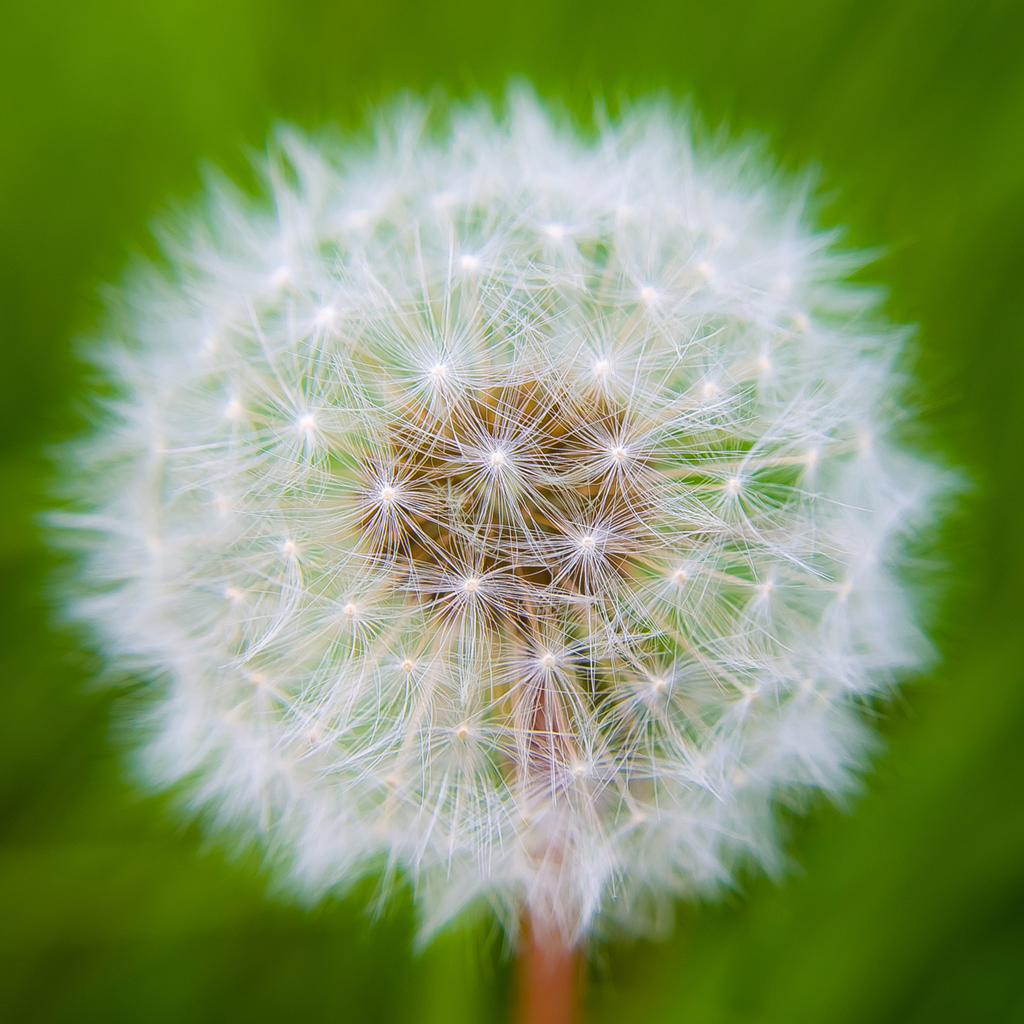
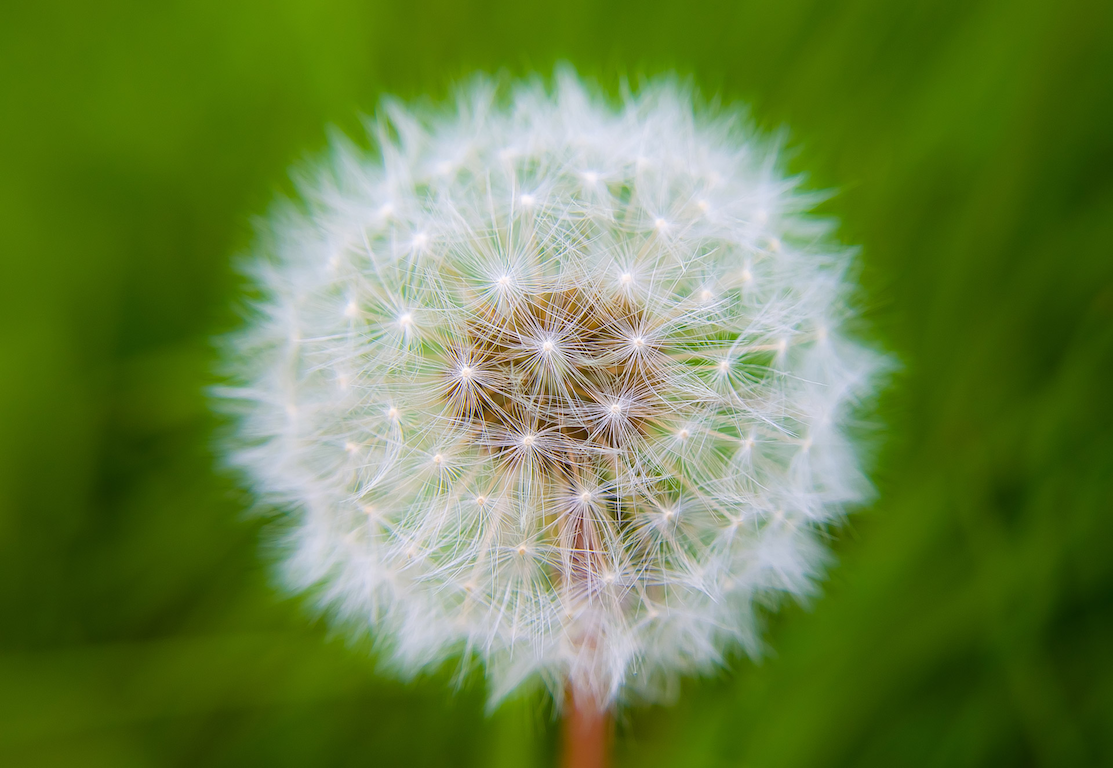
implementing image shaders and renderer -- look ok now -- needs more test. bezier shader and renderer respects zoom scale.

diff --git a/MetalDraw_mac/MetalDraw/MetallicCanvasScene.swift b/MetalDraw_mac/MetalDraw/MetallicCanvasScene.swift
@@ -12,14 +12,7 @@ import MetalKit
 class MettalicCanvasScene: MetallicScene {
 
 	var isDymanic: Bool = false
-	var layers = [MetallicCanvasLayer]()
-
-	lazy var canvasTexture: MTLTexture? = {
-		guard let metallic = self.metallic else { return nil }
-		let descriptor = MTLTextureDescriptor.texture2DDescriptor(pixelFormat: metallic.pixelFormat, width: Int(self.width), height: Int(self.height), mipmapped: false)
-		let texture = self.metallic?.device.makeTexture(descriptor: descriptor)
-		return texture
-	}()
+	private (set) var layers = [MetallicCanvasLayer]()
 
 	func makeRenderingTexture() -> MTLTexture? {
 		guard let metallic = self.metallic else { return nil }
@@ -27,30 +20,39 @@ class MettalicCanvasScene: MetallicScene {
 		let texture = self.metallic?.device.makeTexture(descriptor: descriptor)
 		return texture
 	}
+/*
+	func layerGroups() -> [[MetallicCanvasLayer]] {
+		var layerGroups = [[MetallicCanvasLayer]]()
+		var layerGroup = [MetallicCanvasLayer]()
+		for layer in self.layers {
+			if layer.isHidden { continue }
+			if layer.isDynamic {
+				if layerGroup.count == 0 {
+					layerGroup.append(layer)
+					layerGroups.append(layerGroup)
+					layerGroup = [MetallicCanvasLayer]()
+				}
+				else {
+					
+				}
+			}
+		}
+		return layerGroups
+	}
+*/
 
 	override func render(context: MetallicContext) {
 
 		let commandQueue = context.commandQueue
-		guard let canvasTexture = self.canvasTexture else { return }
-
-		// clear canvasTexture
-		let renderPassDescriptor = MTLRenderPassDescriptor()
-		renderPassDescriptor.colorAttachments[0].texture = canvasTexture
-		renderPassDescriptor.colorAttachments[0].clearColor = MTLClearColorMake(1, 1, 1, 1)
-		renderPassDescriptor.colorAttachments[0].loadAction = .clear
-		renderPassDescriptor.colorAttachments[0].storeAction = .store
-		if let commandBuffer = commandQueue.makeCommandBuffer(),
-			let commandEncoder = commandBuffer.makeRenderCommandEncoder(descriptor: renderPassDescriptor) {
-			commandEncoder.endEncoding()
-			commandBuffer.commit()
-		}
 
 		// layer
 		for layer in layers {
-			let renderingTexture = self.makeRenderingTexture()
+
+			// render on working texture
+			let renderingTexture = self.makeRenderingTexture()!
 			let renderPassDescriptor = MTLRenderPassDescriptor()
 			renderPassDescriptor.colorAttachments[0].texture = renderingTexture
-			renderPassDescriptor.colorAttachments[0].clearColor = MTLClearColorMake(1, 1, 1, 1)
+			renderPassDescriptor.colorAttachments[0].clearColor = MTLClearColorMake(0, 0, 0, 0) // clear color
 			renderPassDescriptor.colorAttachments[0].loadAction = .clear
 			renderPassDescriptor.colorAttachments[0].storeAction = .store
 			if let commandBuffer = commandQueue.makeCommandBuffer(),
@@ -59,14 +61,27 @@ class MettalicCanvasScene: MetallicScene {
 				commandBuffer.commit()
 			}
 			let scale = Float(1)
-            let state = MetallicState(renderPassDescriptor: renderPassDescriptor, transform: context.transform, scale: scale, dictionary: [:])
-            let context = MetallicContext(metallic: context.metallic, state: state)
-			layer.render(context: context)
+			let rect = self.bounds
+			let center = rect.midXmidY
+			let t1 = CGAffineTransform(translationX: -center.x, y: -center.y)
+			let t2 = CGAffineTransform(scaleX: 2.0 / rect.width, y: 2.0 / rect.height)
+//			let t3 = CGAffineTransform(scaleX: 1.0, y: -1.0)
+			let transform = float4x4(affineTransform: t1 * t2)
 			
+            let state = MetallicState(renderPassDescriptor: renderPassDescriptor, transform: transform, scale: scale, dictionary: [:])
+            let context2 = MetallicContext(metallic: context.metallic, state: state)
+			layer.render(context: context2)
+
+			context.render(texture: renderingTexture, in: Rect(0, 0, 1024, 768))
 
 		}
 	}
 
+	func add(layer: MetallicCanvasLayer) {
+		layer.canvas = self
+		self.layers.append(layer)
+	}
 
 }
+
 

diff --git a/MetalDraw_mac/Shaders/BezierRenderer.swift b/MetalDraw_mac/Shaders/BezierRenderer.swift
@@ -22,6 +22,13 @@ class BezierRenderer: MetallicRenderer {
 
 	struct Uniforms {
 		var transform: float4x4
+		var scale: Float
+		var unused1, unused2, unused3: Float
+		init(transform: float4x4, scale: Float) {
+			self.transform = transform
+			self.scale = scale
+			(self.unused1, self.unused2, self.unused3) = (0, 0, 0)
+		}
 	}
 
 	enum PathElementType: UInt8 {
@@ -151,14 +158,14 @@ class BezierRenderer: MetallicRenderer {
 
 extension MetallicContext {
 
-	public func renderPath(cgPath: CGPath) {
+	public func renderPath(cgPath: CGPath, scale: Float) {
 
 		typealias PathElement = BezierRenderer.PathElement
 		typealias KernelOutVertexIn = BezierRenderer.VertexIn
 
 		do {
 			let renderer = self.renderer() as BezierRenderer
-			let uniforms = BezierRenderer.Uniforms(transform: self.transform)
+			let uniforms = BezierRenderer.Uniforms(transform: self.transform, scale: scale)
 			let uniformsBuffer = try device.makeBuffer(items: [uniforms])
 			let brushTexture = self.device.makeTexture(named: "test6")!
 

diff --git a/MetalDraw_mac/Utilities/CoreGraphics+Z.swift b/MetalDraw_mac/Utilities/CoreGraphics+Z.swift
@@ -252,6 +252,9 @@ struct Point: Hashable, CustomStringConvertible {
 	static let zero = Point(x: 0, y: 0)
 	static let nan = Point(x: Float.nan, y: Float.nan)
 
+	func offsetBy(x: Float, y: Float) -> Point {
+		return Point(x: self.x + x, y: self.y + y)
+	}
 }
 
 
@@ -310,6 +313,16 @@ struct Rect: CustomStringConvertible {
 
 	var cgRectValue: CGRect { return CGRect(x: CGFloat(origin.x), y: CGFloat(origin.y), width: CGFloat(size.width), height: CGFloat(size.height)) }
 	var description: String { return "{Rect: (\(origin.x),\(origin.y))-(\(size.width), \(size.height))}" }
+
+	static var zero = Rect(x: 0, y: 0, width: 0, height: 0)
+	
+	func offsetBy(x: Float, y: Float) -> Rect {
+		return Rect(origin: self.origin.offsetBy(x: x, y: y), size: self.size)
+	}
+
+	func offsetBy(point: Point) -> Rect {
+		return Rect(origin: self.origin + point, size: self.size)
+	}
 }
 
 // MARK: -

diff --git a/MetalDraw_mac/MetalDraw/SampleScene.swift b/MetalDraw_mac/MetalDraw/SampleScene.swift
@@ -36,14 +36,13 @@ class SampleScene: MetallicScene {
 	override func render(context: MetallicContext) {
 
 		let image = NSImage(named: "dandelion.png")!
-//		context.render(image: image, in: Rect(-1, -1, 2, 2))
-		context.render(image: image, in: Rect(0, 0, 1024, 1024))
+		context.render(image: image, in: Rect(0, 0, 1113, 768))
 
 		context.renderColor(verticies: [pt1, pt2, pt3])
 		context.renderPoints(points: self.pointVertices)
 
 		let cgPath = NSBezierPath(ovalIn: self.bounds.insetBy(dx: 128, dy: 128)).cgPath
-		context.renderPath(cgPath: cgPath)
+		context.renderPath(cgPath: cgPath, scale: context.scale)
 	}
 }
 

diff --git a/MetalDraw_mac/MetalDraw/Sample1CanvasLayer.swift b/MetalDraw_mac/MetalDraw/Sample1CanvasLayer.swift
@@ -1,0 +1,24 @@
+//
+//  SampleCanvasLayer.swift
+//  MetalDraw_mac
+//
+//  Created by Kaz Yoshikawa on 12/17/17.
+//
+
+import Foundation
+import CoreGraphics
+import MetalKit
+
+
+class Sample1CanvasLayer: MetallicCanvasLayer {
+
+	let pt1 = ColorRenderer.Vertex(x: 512, y: 0, z: 0, w: 1, r: 1, g: 0, b: 0, a: 0.5) // (a)
+	let pt2 = ColorRenderer.Vertex(x: 0, y: 768, z: 0, w: 1, r: 0, g: 1, b: 0, a: 0.5) // (b)
+	let pt3 = ColorRenderer.Vertex(x: 1024, y: 768, z: 0, w: 1, r: 0, g: 0, b: 1, a: 0.5) // (c)
+
+	override func render(context: MetallicContext) {
+		context.renderColor(verticies: [pt1, pt2, pt3])
+	}
+
+}
+

diff --git a/MetalDraw_mac/Main/MetalDrawViewController.swift b/MetalDraw_mac/Main/MetalDrawViewController.swift
@@ -15,9 +15,16 @@ class MetalDrawViewController: NSViewController {
 		return SampleScene(bounds: CGRect(x: 0, y: 0, width: 1024, height: 768))
 	}()
 
+	lazy var sampleCanvas: MettalicCanvasScene = {
+		let canvas = MettalicCanvasScene(bounds: CGRect(x: 0, y: 0, width: 1024, height: 768))
+		let layer1 = Sample1CanvasLayer(frame: Rect(x: 0, y: 0, width: 1024, height: 768))
+		canvas.add(layer: layer1)
+		return canvas
+	}()
+
 	override func viewDidLoad() {
 		super.viewDidLoad()
-		self.metallicView.scene = self.sampleScene
+		self.metallicView.scene = self.sampleCanvas
 	}
 
 

diff --git a/MetalDraw_mac/MetalDraw/MetallicCanvasLayer.swift b/MetalDraw_mac/MetalDraw/MetallicCanvasLayer.swift
@@ -12,7 +12,20 @@ import MetalKit
 
 class MetallicCanvasLayer {
 
+	var isDynamic: Bool = false
+	var isHidden: Bool = false
+
+	var frame: Rect = Rect.zero
+
+	var bounds: Rect {
+		return self.frame.offsetBy(point: self.frame.origin)
+	}
+
 	weak var canvas: MettalicCanvasScene?
+
+	init(frame: Rect) {
+		self.frame = frame
+	}
 
 	func render(context: MetallicContext) {
 		

diff --git a/MetalDraw_mac/Shaders/ImageRenderer.swift b/MetalDraw_mac/Shaders/ImageRenderer.swift
@@ -47,7 +47,7 @@ class ImageRenderer: MetallicRenderer {
 		let (l, r, t, b) = (rect.minX, rect.maxX, rect.maxY, rect.minY)
 
 		//	vertex	(y)		texture	(v)
-		//	1---4	(1) 		a---d 	(0)
+		//	1---4	(1) 	a---d 	(0)
 		//	|	|			|	|
 		//	2---3 	(0)		b---c 	(1)
 		//
